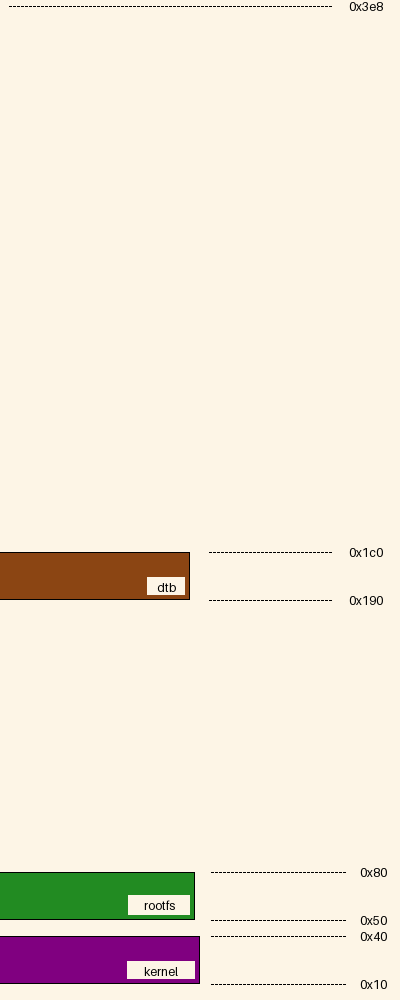
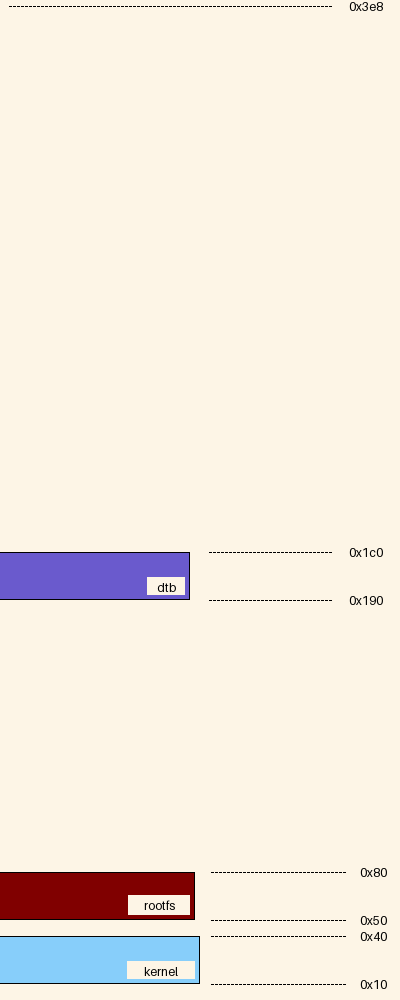
increased table font size to 15

Changed region(s): [[0.0, 0.868, 0.51, 0.992], [0.0, 0.527, 0.48, 0.62]]

diff --git a/mm/diagram.py b/mm/diagram.py
@@ -42,6 +42,9 @@ class MemoryMap:
         self.fixed_legend_text_size = 12
         """Fixed size for legend text"""
 
+        self.table_text_size = 15
+        """Fixed size for table text"""
+
         self.void_thres: int = None
         """Void space threshold for adding VoidRegion objs"""
 
@@ -217,7 +220,7 @@ class MemoryMap:
         table: PIL.Image.Image = mm.types.Table().draw_table(
             table=table_data,
             header=["Name", "Origin", "Size", "Remains", "Collisions"],
-            font=PIL.ImageFont.load_default(12)
+            font=PIL.ImageFont.load_default(self.table_text_size)
         )
         tableimg_file_path = pathlib.Path(self.args.out).stem + "_table.png"
         table.save(pathlib.Path(self.args.out).parent / tableimg_file_path)

diff --git a/doc/example/tests.test_docs_collisions.md b/doc/example/tests.test_docs_collisions.md
@@ -1,6 +1,6 @@
 ![memory map diagram](tests.test_docs_collisions.png)
 |name|origin|size|remaining|collisions
 |:-|:-|:-|:-|:-|
-|<span style='color:indigo'>kernel</span>|0x10|0x60|-0x20|{'rootfs': '0x50'}|
-|<span style='color:palegreen'>rootfs</span>|0x50|0x50|-0x10|{'kernel': '0x50', 'dtb': '0x90'}|
-|<span style='color:mediumturquoise'>dtb</span>|0x90|0x30|0x328|{'rootfs': '0x90'}|
+|<span style='color:cadetblue'>kernel</span>|0x10|0x60|-0x20|{'rootfs': '0x50'}|
+|<span style='color:deepskyblue'>rootfs</span>|0x50|0x50|-0x10|{'kernel': '0x50', 'dtb': '0x90'}|
+|<span style='color:royalblue'>dtb</span>|0x90|0x30|0x328|{'rootfs': '0x90'}|

diff --git a/doc/example/tests.test_docs_normal.md b/doc/example/tests.test_docs_normal.md
@@ -1,6 +1,6 @@
 ![memory map diagram](tests.test_docs_normal.png)
 |name|origin|size|remaining|collisions
 |:-|:-|:-|:-|:-|
-|<span style='color:purple'>kernel</span>|0x10|0x30|0x10|{}|
-|<span style='color:forestgreen'>rootfs</span>|0x50|0x30|0x110|{}|
-|<span style='color:saddlebrown'>dtb</span>|0x190|0x30|0x228|{}|
+|<span style='color:lightskyblue'>kernel</span>|0x10|0x30|0x10|{}|
+|<span style='color:maroon'>rootfs</span>|0x50|0x30|0x110|{}|
+|<span style='color:slateblue'>dtb</span>|0x190|0x30|0x228|{}|
